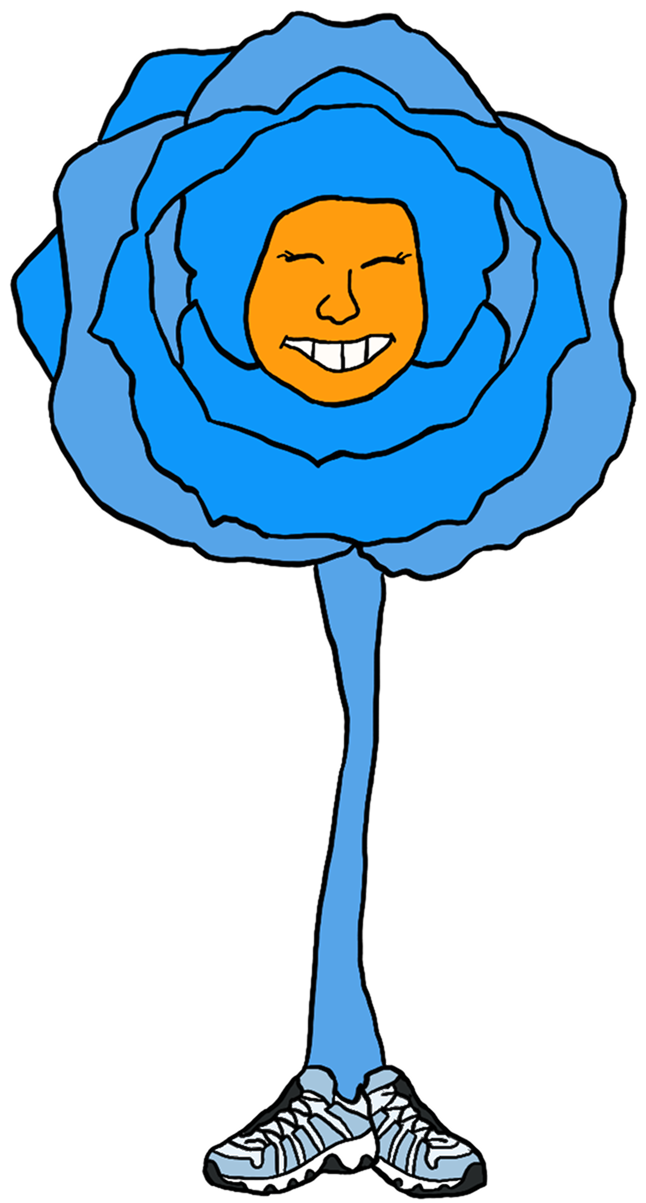
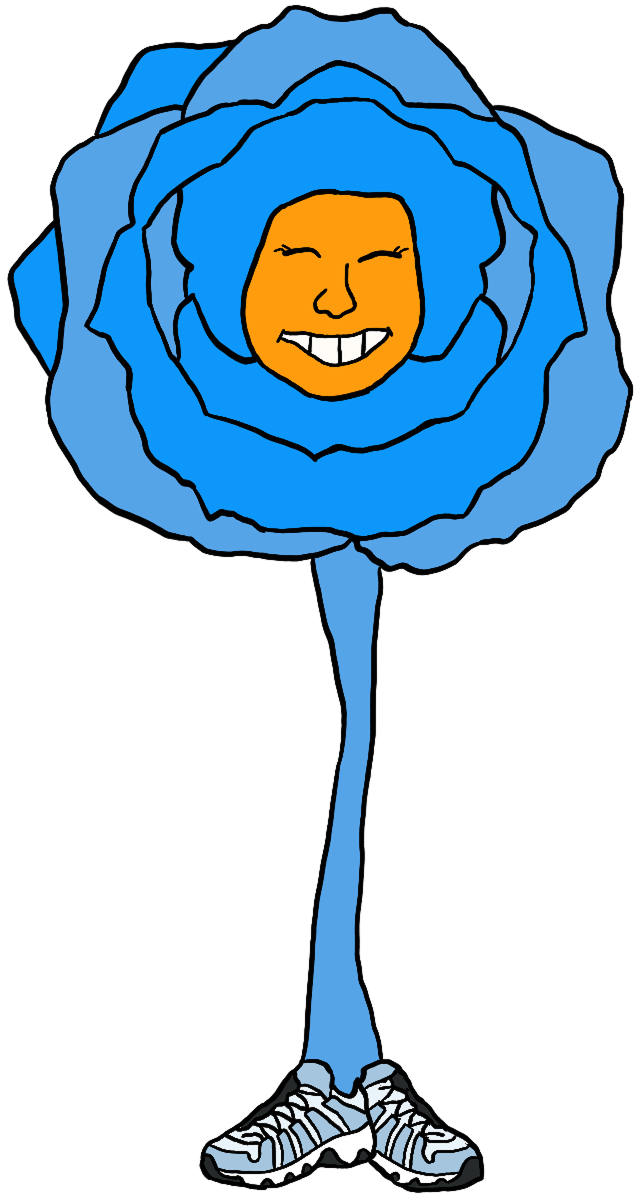
build 2026-10-25T01:45:07.477Z

diff --git a/zerose/index.html b/zerose/index.html
@@ -34,6 +34,6 @@
     <canvas id="c"></canvas>
 
     
-  <script type="module">var v={roadInstructions:[],roadPoints:[],sceneEmbeds:[],sceneObjects:[{name:"blue-rose",x:-2530,y:318,height:808}],terrainZones:[{points:[[-2947,-1353],[-777,-2207],[1753,-287],[1683,1747],[-217,2860],[-1937,2773],[-3667,3057],[-4337,1397],[-4017,-203]],type:"fill",color:"oklch(0.793 0.117 3.1)"}]};var N=document.getElementById("c"),L=N.getContext("2d");function s(){let o=window.devicePixelRatio||1,l=4096,$=16777216,u=Math.min(o,4096/window.innerWidth,4096/window.innerHeight),X=window.innerWidth*u*window.innerHeight*u;if(X>16777216)u*=Math.sqrt(16777216/X);N.width=Math.floor(window.innerWidth*u),N.height=Math.floor(window.innerHeight*u),N.style.width=window.innerWidth+"px",N.style.height=window.innerHeight+"px",L.setTransform(u,0,0,u,0,0),L.imageSmoothingEnabled=!0,L.imageSmoothingQuality="low",U()}window.addEventListener("resize",s);window.addEventListener("load",s);var No="png",R={},j={},P={};function y(o,l=No){if(R[o])return R[o];let $=new Image;R[o]=$,j[o]=!1;let u=o.replace(/_/g,"-");return $.onerror=()=>console.warn(`Failed to load assets/${u}.${l}`),$.onload=()=>{if(j[o]=!0,P[o])P[o]();U()},$.src=`assets/${u}.${l}`,$}function H(o){return!!j[o]}function p(o,l){P[o]=l}var I=[];function c(o){I=o}function i(o,l,$,u,X){let f=[{x:o,y:l,curve:!1}],Y=0;for(let M of X)if(M.straight)for(let B=0;B<M.straight;B++){let Z=f[f.length-1];f.push({x:Z.x+Math.cos(Y)*$,y:Z.y+Math.sin(Y)*$,curve:!1})}else if(M.curve){let Z=M.curve*Math.PI/180/14;for(let k=0;k<14;k++){Y+=Z;let G=f[f.length-1];f.push({x:G.x+Math.cos(Y)*u,y:G.y+Math.sin(Y)*u,curve:!0})}}return f}var ko=0.03;function Lo(o,l=0.5){let $=o.length,u=(Y)=>o[Math.max(0,Math.min($-1,Y))],X=l/3,f=[{x:o[0][0],y:o[0][1],s:0}];for(let Y=0;Y<$-1;Y++){let M=u(Y-1),B=u(Y),Z=u(Y+1),k=u(Y+2),G=B[0]+(Z[0]-M[0])*X,F=B[1]+(Z[1]-M[1])*X,C=Z[0]-(k[0]-B[0])*X,D=Z[1]-(k[1]-B[1])*X,E=Math.max(8,Math.ceil(Math.hypot(Z[0]-B[0],Z[1]-B[1])/10));for(let V=1;V<=E;V++){let Q=V/E,O=1-Q,r=O*O*O*B[0]+3*O*O*Q*G+3*O*Q*Q*C+Q*Q*Q*Z[0],d=O*O*O*B[1]+3*O*O*Q*F+3*O*Q*Q*D+Q*Q*Q*Z[1],z=f[f.length-1];f.push({x:r,y:d,s:z.s+Math.hypot(r-z.x,d-z.y)})}}return f}function Oo(o,l){let $=0,u=o.length-1;while(u-$>1){let M=$+u>>1;if(o[M].s<=l)$=M;else u=M}let X=o[$],f=o[u],Y=Math.min(1,Math.max(0,(l-X.s)/(f.s-X.s||1)));return{x:X.x+(f.x-X.x)*Y,y:X.y+(f.y-X.y)*Y}}function e(o,l,$){if(o.length<2)return[];let u=[{x:o[0][0],y:o[0][1],curve:!1}];if(!(l>0&&$>0))return u;let X=Lo(o),f=X[X.length-1].s,Y=(k)=>Oo(X,Math.min(f,Math.max(0,k))),M=l/2,B=(k)=>{let G=Y(k-M),F=Y(k),C=Y(k+M),D=F.x-G.x,E=F.y-G.y,V=C.x-F.x,Q=C.y-F.y;if(Math.hypot(D,E)<0.000001||Math.hypot(V,Q)<0.000001)return 0;let O=Math.atan2(Q,V)-Math.atan2(E,D);while(O>Math.PI)O-=2*Math.PI;while(O<-Math.PI)O+=2*Math.PI;return Math.abs(O)},Z=0;for(;;){let k=B(Z)>ko;if(Z+=k?$:l,Z>f)break;let G=Y(Z);u.push({x:G.x,y:G.y,curve:k})}return u}var q={x:500,y:400,zoom:0.3},Qo=0.1,Go=5,x=!1;function T(){if(x)return;x=!0,requestAnimationFrame(()=>{x=!1,U()})}function m(o,l,$){let u=Math.min(Go,Math.max(Qo,q.zoom*$)),X=(o-q.x)/q.zoom,f=(l-q.y)/q.zoom;q.zoom=u,q.x=o-X*q.zoom,q.y=l-f*q.zoom,T()}var oo=300,lo=300,K=null,a=new Map;function Jo(){if(K)return K;return K=document.createElement("div"),K.id="embed-layer",Object.assign(K.style,{position:"fixed",inset:"0",overflow:"hidden",pointerEvents:"none",zIndex:"10"}),document.body.appendChild(K),K}function _o(o){let l=document.createElement("div");Object.assign(l.style,{position:"absolute",top:"0",left:"0",width:(o.width??oo)+"px",height:(o.height??lo)+"px",transformOrigin:"top left",pointerEvents:"auto"});let $=document.createElement("iframe");return $.width="100%",$.height="100%",$.scrolling="no",$.frameBorder="no",$.allow="autoplay; encrypted-media",$.loading="lazy",$.src=o.src,l.appendChild($),Jo().appendChild(l),l}function $o(){let{innerWidth:o,innerHeight:l}=window;for(let $ of h){let u=$.x*q.zoom+q.x,X=$.y*q.zoom+q.y,f=($.width??oo)*q.zoom,Y=($.height??lo)*q.zoom,M=u+f<0||u>o||X+Y<0||X>l,B=a.get($);if(M){if(B)B.style.display="none";continue}if(!B)B=_o($),a.set($,B);B.style.display="",B.style.transform=`translate(${u}px, ${X}px) scale(${q.zoom})`}}function Ko(o){let l=o.points.map((X)=>X[0]),$=o.points.map((X)=>X[1]),u=(o.type==="line"?(o.width||0)/2:(o.borderWidth||0)/2)+200;return{l:Math.min(...l)-u,t:Math.min(...$)-u,r:Math.max(...l)+u,b:Math.max(...$)+u}}function Fo(o,l=0.5,$=L){let u=o.length,X=(Y)=>o[Math.max(0,Math.min(u-1,Y))],f=l/3;$.moveTo(o[0][0],o[0][1]);for(let Y=0;Y<u-1;Y++){let M=X(Y-1),B=X(Y),Z=X(Y+1),k=X(Y+2);$.bezierCurveTo(B[0]+(Z[0]-M[0])*f,B[1]+(Z[1]-M[1])*f,Z[0]-(k[0]-B[0])*f,Z[1]-(k[1]-B[1])*f,Z[0],Z[1])}}function S(o,l=L){for(let $ of W){if(!$.points||$.points.length<2)continue;let u=Ko($);if(u.r<o.left||u.l>o.right||u.b<o.top||u.t>o.bottom)continue;if(l.beginPath(),Fo($.points,$.tension,l),$.type==="fill"){if(l.fillStyle=$.color,l.fill(),$.border)l.closePath(),l.lineJoin="round",l.setLineDash($.borderDash||[]),l.strokeStyle=$.border,l.lineWidth=$.borderWidth||10,l.stroke(),l.setLineDash([])}else if($.type==="line")l.lineCap="round",l.lineJoin="round",l.setLineDash($.dash||[]),l.strokeStyle=$.color,l.lineWidth=$.width||15,l.stroke(),l.setLineDash([])}}var uo=[];function Vo(o=0){let l=N.clientWidth,$=N.clientHeight;return{left:-q.x/q.zoom-o,top:-q.y/q.zoom-o,right:(l-q.x)/q.zoom+o,bottom:($-q.y)/q.zoom+o,zoom:q.zoom,density:q.zoom*(N.width/(N.clientWidth||1))}}var Uo=8000000,Eo=1,J=null;function Io(){let o=1/0,l=1/0,$=-1/0,u=-1/0,X=(Y,M)=>{if(Y<o)o=Y;if(Y>$)$=Y;if(M<l)l=M;if(M>u)u=M};for(let Y of W)for(let[M,B]of Y.points||[])X(M,B);if(o===1/0)return null;let f=400;return{l:o-f,t:l-f,r:$+f,b:u+f}}function Wo(){let o=Io();if(!o)return;let l=o.r-o.l,$=o.b-o.t,u=Math.min(1,Math.sqrt(Uo/(l*$)),4096/Math.max(l,$)),X=document.createElement("canvas");X.width=Math.ceil(l*u),X.height=Math.ceil($*u);let f=X.getContext("2d");f.imageSmoothingQuality="high",f.scale(u,u),f.translate(-o.l,-o.t);let Y={left:o.l,top:o.t,right:o.r,bottom:o.b,zoom:u};S(Y,f),J={canvas:X,x:o.l,y:o.t,w:X.width/u,h:X.height/u,scale:u}}function Co(o){let l=document.body.classList.contains("dev-design");if(l||q.zoom>1.5)J=null;if(!J&&!l&&q.zoom<=0.4)Wo();let $=q.zoom*(N.width/(N.clientWidth||1));if(J&&$<=J.scale*Eo)L.drawImage(J.canvas,J.x,J.y,J.w,J.h);else S(o);Do(o)}function U(){L.save(),L.setTransform(1,0,0,1,0,0),L.clearRect(0,0,N.width,N.height),L.restore(),L.save(),L.translate(q.x,q.y),L.scale(q.zoom,q.zoom),L.imageSmoothingEnabled=q.zoom<2;let o=Vo(400);Co(o),Yo(o);for(let l of uo)l(L);L.restore(),$o()}function Xo(o,l,$,u,X=L){let f=y(o);if(!H(o))return!1;let Y=u/f.naturalHeight,M=f.naturalWidth*Y;return X.drawImage(f,l,$,M,u),!0}function Do(o,l=L){let $=y("road","svg");if(!H("road"))return;for(let u=0;u<I.length-1;u++){let X=I[u],f=I[u+1],Y=(X.x+f.x)/2,M=(X.y+f.y)/2;if(Y<o.left||Y>o.right||M<o.top||M>o.bottom)continue;let B=Math.atan2(f.y-X.y,f.x-X.x),Z=f.curve?$.width*0.5:$.width,k=$.height;l.save(),l.translate(Y,M),l.rotate(B),l.drawImage($,-Z/2,-k/2,Z,k),l.restore()}}function yo(){let l=y("road","svg").width*0.92,$=l*0.5;c(A.length>=2?e(A,l,$):i(0,400,l,$,b))}p("road",yo);var b=[],A=[],h=[],fo=[],W=[];function qo(o){let l=($,u=[])=>{$.length=0,$.push(...u)};l(b,o.roadInstructions),l(A,o.roadPoints),l(h,o.sceneEmbeds),l(fo,o.sceneObjects),l(W,o.terrainZones)}function Yo(o,l){let $=o.density??1;for(let{name:u,x:X,y:f,height:Y}of fo){if(X+Y<o.left||X-Y>o.right||f+Y<o.top||f-Y>o.bottom)continue;if(Y*$<3)continue;if(!Xo(u,X,f,Y,l)&&o.pending)o.pending.push(u)}}var t=!1,n=0,g=0;N.addEventListener("mousedown",(o)=>{t=!0,n=o.clientX,g=o.clientY,N.classList.add("dragging")});window.addEventListener("mouseup",()=>{t=!1,N.classList.remove("dragging")});window.addEventListener("mousemove",(o)=>{if(!t)return;q.x+=o.clientX-n,q.y+=o.clientY-g,n=o.clientX,g=o.clientY,T()});N.addEventListener("wheel",(o)=>{o.preventDefault();let l=N.getBoundingClientRect(),$=o.clientX-l.left,u=o.clientY-l.top,X=o.deltaY<0?1.1:0.9;m($,u,X)},{passive:!1});var _=null,w=null,Mo=1;N.addEventListener("touchstart",(o)=>{if(o.touches.length===1)_={x:o.touches[0].clientX,y:o.touches[0].clientY};else if(o.touches.length===2)_=null,w=Bo(o.touches),Mo=q.zoom});N.addEventListener("touchmove",(o)=>{if(o.preventDefault(),o.touches.length===1&&_){let l=o.touches[0];q.x+=l.clientX-_.x,q.y+=l.clientY-_.y,_={x:l.clientX,y:l.clientY},T()}else if(o.touches.length===2){let l=Bo(o.touches),$=N.getBoundingClientRect(),u=(o.touches[0].clientX+o.touches[1].clientX)/2-$.left,X=(o.touches[0].clientY+o.touches[1].clientY)/2-$.top,Y=Mo*(l/w)/q.zoom;m(u,X,Y)}},{passive:!1});N.addEventListener("touchend",(o)=>{if(_=null,w=null,o.touches.length===1)_={x:o.touches[0].clientX,y:o.touches[0].clientY}});function Bo(o){let l=o[0].clientX-o[1].clientX,$=o[0].clientY-o[1].clientY;return Math.hypot(l,$)}qo(v);
+  <script type="module">var v={roadInstructions:[],roadPoints:[],sceneEmbeds:[],sceneObjects:[{name:"blue-rose",x:0,y:360,height:808}],terrainZones:[{points:[[117,-1443],[2477,-1093],[2867,1263],[1017,1763],[-1413,1263],[-1363,-917]],type:"fill",color:"oklch(0.793 0.117 3.1)"}]};var N=document.getElementById("c"),L=N.getContext("2d");function s(){let o=window.devicePixelRatio||1,l=4096,$=16777216,u=Math.min(o,4096/window.innerWidth,4096/window.innerHeight),X=window.innerWidth*u*window.innerHeight*u;if(X>16777216)u*=Math.sqrt(16777216/X);N.width=Math.floor(window.innerWidth*u),N.height=Math.floor(window.innerHeight*u),N.style.width=window.innerWidth+"px",N.style.height=window.innerHeight+"px",L.setTransform(u,0,0,u,0,0),L.imageSmoothingEnabled=!0,L.imageSmoothingQuality="low",U()}window.addEventListener("resize",s);window.addEventListener("load",s);var No="png",R={},j={},P={};function y(o,l=No){if(R[o])return R[o];let $=new Image;R[o]=$,j[o]=!1;let u=o.replace(/_/g,"-");return $.onerror=()=>console.warn(`Failed to load assets/${u}.${l}`),$.onload=()=>{if(j[o]=!0,P[o])P[o]();U()},$.src=`assets/${u}.${l}`,$}function H(o){return!!j[o]}function p(o,l){P[o]=l}var I=[];function c(o){I=o}function i(o,l,$,u,X){let f=[{x:o,y:l,curve:!1}],Y=0;for(let M of X)if(M.straight)for(let B=0;B<M.straight;B++){let Z=f[f.length-1];f.push({x:Z.x+Math.cos(Y)*$,y:Z.y+Math.sin(Y)*$,curve:!1})}else if(M.curve){let Z=M.curve*Math.PI/180/14;for(let k=0;k<14;k++){Y+=Z;let G=f[f.length-1];f.push({x:G.x+Math.cos(Y)*u,y:G.y+Math.sin(Y)*u,curve:!0})}}return f}var ko=0.03;function Lo(o,l=0.5){let $=o.length,u=(Y)=>o[Math.max(0,Math.min($-1,Y))],X=l/3,f=[{x:o[0][0],y:o[0][1],s:0}];for(let Y=0;Y<$-1;Y++){let M=u(Y-1),B=u(Y),Z=u(Y+1),k=u(Y+2),G=B[0]+(Z[0]-M[0])*X,F=B[1]+(Z[1]-M[1])*X,C=Z[0]-(k[0]-B[0])*X,D=Z[1]-(k[1]-B[1])*X,E=Math.max(8,Math.ceil(Math.hypot(Z[0]-B[0],Z[1]-B[1])/10));for(let V=1;V<=E;V++){let Q=V/E,O=1-Q,r=O*O*O*B[0]+3*O*O*Q*G+3*O*Q*Q*C+Q*Q*Q*Z[0],d=O*O*O*B[1]+3*O*O*Q*F+3*O*Q*Q*D+Q*Q*Q*Z[1],z=f[f.length-1];f.push({x:r,y:d,s:z.s+Math.hypot(r-z.x,d-z.y)})}}return f}function Oo(o,l){let $=0,u=o.length-1;while(u-$>1){let M=$+u>>1;if(o[M].s<=l)$=M;else u=M}let X=o[$],f=o[u],Y=Math.min(1,Math.max(0,(l-X.s)/(f.s-X.s||1)));return{x:X.x+(f.x-X.x)*Y,y:X.y+(f.y-X.y)*Y}}function e(o,l,$){if(o.length<2)return[];let u=[{x:o[0][0],y:o[0][1],curve:!1}];if(!(l>0&&$>0))return u;let X=Lo(o),f=X[X.length-1].s,Y=(k)=>Oo(X,Math.min(f,Math.max(0,k))),M=l/2,B=(k)=>{let G=Y(k-M),F=Y(k),C=Y(k+M),D=F.x-G.x,E=F.y-G.y,V=C.x-F.x,Q=C.y-F.y;if(Math.hypot(D,E)<0.000001||Math.hypot(V,Q)<0.000001)return 0;let O=Math.atan2(Q,V)-Math.atan2(E,D);while(O>Math.PI)O-=2*Math.PI;while(O<-Math.PI)O+=2*Math.PI;return Math.abs(O)},Z=0;for(;;){let k=B(Z)>ko;if(Z+=k?$:l,Z>f)break;let G=Y(Z);u.push({x:G.x,y:G.y,curve:k})}return u}var q={x:500,y:400,zoom:0.3},Qo=0.1,Go=5,x=!1;function T(){if(x)return;x=!0,requestAnimationFrame(()=>{x=!1,U()})}function m(o,l,$){let u=Math.min(Go,Math.max(Qo,q.zoom*$)),X=(o-q.x)/q.zoom,f=(l-q.y)/q.zoom;q.zoom=u,q.x=o-X*q.zoom,q.y=l-f*q.zoom,T()}var oo=300,lo=300,K=null,a=new Map;function Jo(){if(K)return K;return K=document.createElement("div"),K.id="embed-layer",Object.assign(K.style,{position:"fixed",inset:"0",overflow:"hidden",pointerEvents:"none",zIndex:"10"}),document.body.appendChild(K),K}function _o(o){let l=document.createElement("div");Object.assign(l.style,{position:"absolute",top:"0",left:"0",width:(o.width??oo)+"px",height:(o.height??lo)+"px",transformOrigin:"top left",pointerEvents:"auto"});let $=document.createElement("iframe");return $.width="100%",$.height="100%",$.scrolling="no",$.frameBorder="no",$.allow="autoplay; encrypted-media",$.loading="lazy",$.src=o.src,l.appendChild($),Jo().appendChild(l),l}function $o(){let{innerWidth:o,innerHeight:l}=window;for(let $ of h){let u=$.x*q.zoom+q.x,X=$.y*q.zoom+q.y,f=($.width??oo)*q.zoom,Y=($.height??lo)*q.zoom,M=u+f<0||u>o||X+Y<0||X>l,B=a.get($);if(M){if(B)B.style.display="none";continue}if(!B)B=_o($),a.set($,B);B.style.display="",B.style.transform=`translate(${u}px, ${X}px) scale(${q.zoom})`}}function Ko(o){let l=o.points.map((X)=>X[0]),$=o.points.map((X)=>X[1]),u=(o.type==="line"?(o.width||0)/2:(o.borderWidth||0)/2)+200;return{l:Math.min(...l)-u,t:Math.min(...$)-u,r:Math.max(...l)+u,b:Math.max(...$)+u}}function Fo(o,l=0.5,$=L){let u=o.length,X=(Y)=>o[Math.max(0,Math.min(u-1,Y))],f=l/3;$.moveTo(o[0][0],o[0][1]);for(let Y=0;Y<u-1;Y++){let M=X(Y-1),B=X(Y),Z=X(Y+1),k=X(Y+2);$.bezierCurveTo(B[0]+(Z[0]-M[0])*f,B[1]+(Z[1]-M[1])*f,Z[0]-(k[0]-B[0])*f,Z[1]-(k[1]-B[1])*f,Z[0],Z[1])}}function S(o,l=L){for(let $ of W){if(!$.points||$.points.length<2)continue;let u=Ko($);if(u.r<o.left||u.l>o.right||u.b<o.top||u.t>o.bottom)continue;if(l.beginPath(),Fo($.points,$.tension,l),$.type==="fill"){if(l.fillStyle=$.color,l.fill(),$.border)l.closePath(),l.lineJoin="round",l.setLineDash($.borderDash||[]),l.strokeStyle=$.border,l.lineWidth=$.borderWidth||10,l.stroke(),l.setLineDash([])}else if($.type==="line")l.lineCap="round",l.lineJoin="round",l.setLineDash($.dash||[]),l.strokeStyle=$.color,l.lineWidth=$.width||15,l.stroke(),l.setLineDash([])}}var uo=[];function Vo(o=0){let l=N.clientWidth,$=N.clientHeight;return{left:-q.x/q.zoom-o,top:-q.y/q.zoom-o,right:(l-q.x)/q.zoom+o,bottom:($-q.y)/q.zoom+o,zoom:q.zoom,density:q.zoom*(N.width/(N.clientWidth||1))}}var Uo=8000000,Eo=1,J=null;function Io(){let o=1/0,l=1/0,$=-1/0,u=-1/0,X=(Y,M)=>{if(Y<o)o=Y;if(Y>$)$=Y;if(M<l)l=M;if(M>u)u=M};for(let Y of W)for(let[M,B]of Y.points||[])X(M,B);if(o===1/0)return null;let f=400;return{l:o-f,t:l-f,r:$+f,b:u+f}}function Wo(){let o=Io();if(!o)return;let l=o.r-o.l,$=o.b-o.t,u=Math.min(1,Math.sqrt(Uo/(l*$)),4096/Math.max(l,$)),X=document.createElement("canvas");X.width=Math.ceil(l*u),X.height=Math.ceil($*u);let f=X.getContext("2d");f.imageSmoothingQuality="high",f.scale(u,u),f.translate(-o.l,-o.t);let Y={left:o.l,top:o.t,right:o.r,bottom:o.b,zoom:u};S(Y,f),J={canvas:X,x:o.l,y:o.t,w:X.width/u,h:X.height/u,scale:u}}function Co(o){let l=document.body.classList.contains("dev-design");if(l||q.zoom>1.5)J=null;if(!J&&!l&&q.zoom<=0.4)Wo();let $=q.zoom*(N.width/(N.clientWidth||1));if(J&&$<=J.scale*Eo)L.drawImage(J.canvas,J.x,J.y,J.w,J.h);else S(o);Do(o)}function U(){L.save(),L.setTransform(1,0,0,1,0,0),L.clearRect(0,0,N.width,N.height),L.restore(),L.save(),L.translate(q.x,q.y),L.scale(q.zoom,q.zoom),L.imageSmoothingEnabled=q.zoom<2;let o=Vo(400);Co(o),Yo(o);for(let l of uo)l(L);L.restore(),$o()}function Xo(o,l,$,u,X=L){let f=y(o);if(!H(o))return!1;let Y=u/f.naturalHeight,M=f.naturalWidth*Y;return X.drawImage(f,l,$,M,u),!0}function Do(o,l=L){let $=y("road","svg");if(!H("road"))return;for(let u=0;u<I.length-1;u++){let X=I[u],f=I[u+1],Y=(X.x+f.x)/2,M=(X.y+f.y)/2;if(Y<o.left||Y>o.right||M<o.top||M>o.bottom)continue;let B=Math.atan2(f.y-X.y,f.x-X.x),Z=f.curve?$.width*0.5:$.width,k=$.height;l.save(),l.translate(Y,M),l.rotate(B),l.drawImage($,-Z/2,-k/2,Z,k),l.restore()}}function yo(){let l=y("road","svg").width*0.92,$=l*0.5;c(A.length>=2?e(A,l,$):i(0,400,l,$,b))}p("road",yo);var b=[],A=[],h=[],fo=[],W=[];function qo(o){let l=($,u=[])=>{$.length=0,$.push(...u)};l(b,o.roadInstructions),l(A,o.roadPoints),l(h,o.sceneEmbeds),l(fo,o.sceneObjects),l(W,o.terrainZones)}function Yo(o,l){let $=o.density??1;for(let{name:u,x:X,y:f,height:Y}of fo){if(X+Y<o.left||X-Y>o.right||f+Y<o.top||f-Y>o.bottom)continue;if(Y*$<3)continue;if(!Xo(u,X,f,Y,l)&&o.pending)o.pending.push(u)}}var t=!1,n=0,g=0;N.addEventListener("mousedown",(o)=>{t=!0,n=o.clientX,g=o.clientY,N.classList.add("dragging")});window.addEventListener("mouseup",()=>{t=!1,N.classList.remove("dragging")});window.addEventListener("mousemove",(o)=>{if(!t)return;q.x+=o.clientX-n,q.y+=o.clientY-g,n=o.clientX,g=o.clientY,T()});N.addEventListener("wheel",(o)=>{o.preventDefault();let l=N.getBoundingClientRect(),$=o.clientX-l.left,u=o.clientY-l.top,X=o.deltaY<0?1.1:0.9;m($,u,X)},{passive:!1});var _=null,w=null,Mo=1;N.addEventListener("touchstart",(o)=>{if(o.touches.length===1)_={x:o.touches[0].clientX,y:o.touches[0].clientY};else if(o.touches.length===2)_=null,w=Bo(o.touches),Mo=q.zoom});N.addEventListener("touchmove",(o)=>{if(o.preventDefault(),o.touches.length===1&&_){let l=o.touches[0];q.x+=l.clientX-_.x,q.y+=l.clientY-_.y,_={x:l.clientX,y:l.clientY},T()}else if(o.touches.length===2){let l=Bo(o.touches),$=N.getBoundingClientRect(),u=(o.touches[0].clientX+o.touches[1].clientX)/2-$.left,X=(o.touches[0].clientY+o.touches[1].clientY)/2-$.top,Y=Mo*(l/w)/q.zoom;m(u,X,Y)}},{passive:!1});N.addEventListener("touchend",(o)=>{if(_=null,w=null,o.touches.length===1)_={x:o.touches[0].clientX,y:o.touches[0].clientY}});function Bo(o){let l=o[0].clientX-o[1].clientX,$=o[0].clientY-o[1].clientY;return Math.hypot(l,$)}qo(v);
 </script></body>
 </html>
